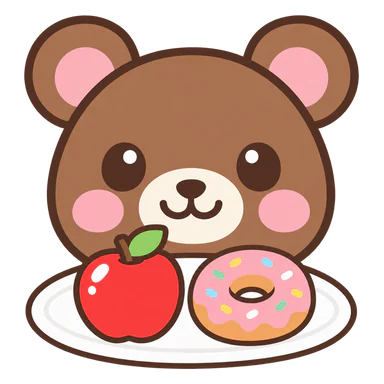
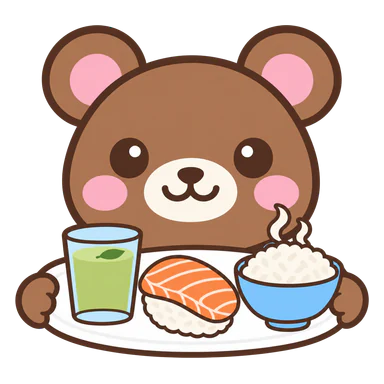
Add the pictures for 動物餐廳's ingredients, dishes and 電鍋
The new 動物餐廳 is made of ingredients that combine into dishes, so it
needs nine ingredients (杯子, 茶葉, 水, 牛奶, 米, 鮭魚, 蛋, 海苔, 小黃瓜),
白飯, five dishes and the 電鍋, drawn like the animals. The hub card and
the cleared card now show the bear holding 綠茶, 鮭魚壽司 and 白飯. The
generated pictures came on white, so the white reaching the edge (and
the holes in the jug's and the rice scoop's handles) was made
transparent before conversion.

build-game-art.cjs learns tool-<id>.png for the 電鍋 and draws foods at
256 pixels, since a finished dish shows up to 90 CSS px on its plate.
The old foods stay until the game stops using them.

diff --git a/offline-shell.js b/offline-shell.js
@@ -1,3 +1,3 @@
 // Generated by scripts/prepare-release.py
 const SHELL_VERSION="1.0.0-beta.12";
-const SHELL_FILES=["./", "./index.html", "./app.js?v=1.0.0-beta.12", "./manifest.json", "./icon.svg", "./assets/coloring/catalog.js?v=1.0.0-beta.12", "./styles/base.css?v=1.0.0-beta.12", "./styles/celebration.css?v=1.0.0-beta.12", "./styles/editor.css?v=1.0.0-beta.12", "./styles/game-blocks.css?v=1.0.0-beta.12", "./styles/game-restaurant.css?v=1.0.0-beta.12", "./styles/games.css?v=1.0.0-beta.12", "./styles/home.css?v=1.0.0-beta.12", "./styles/parents.css?v=1.0.0-beta.12", "./modules/assets.js?v=1.0.0-beta.12", "./modules/blocks.js?v=1.0.0-beta.12", "./modules/game-blocks.js?v=1.0.0-beta.12", "./modules/game-kit.js?v=1.0.0-beta.12", "./modules/game-restaurant.js?v=1.0.0-beta.12", "./modules/history.js?v=1.0.0-beta.12", "./modules/install.js?v=1.0.0-beta.12", "./modules/legacy-scenes.js?v=1.0.0-beta.12", "./modules/migrations.js?v=1.0.0-beta.12", "./modules/offline.js?v=1.0.0-beta.12", "./modules/painter.js?v=1.0.0-beta.12", "./modules/palette.js?v=1.0.0-beta.12", "./modules/random.js?v=1.0.0-beta.12", "./modules/regions.js?v=1.0.0-beta.12", "./modules/renderer.js?v=1.0.0-beta.12", "./modules/restaurant.js?v=1.0.0-beta.12", "./modules/scheduler.js?v=1.0.0-beta.12", "./modules/sound.js?v=1.0.0-beta.12", "./modules/storage.js?v=1.0.0-beta.12", "./modules/surface.js?v=1.0.0-beta.12", "./modules/ui.js?v=1.0.0-beta.12", "./assets/ui/app-icon-192.png", "./assets/ui/app-icon-512.png", "./assets/ui/app-icon-maskable-512.png", "./assets/ui/back.svg", "./assets/ui/category-dolphin.png", "./assets/ui/category-gabby.png", "./assets/ui/category-kitty.png", "./assets/ui/category-peppa.png", "./assets/ui/category-snow-white.png", "./assets/ui/category-toothless.png", "./assets/ui/category-winger.png", "./assets/ui/clear.svg", "./assets/ui/download.svg", "./assets/ui/eraser.svg", "./assets/ui/fullscreen.svg", "./assets/ui/gallery.svg", "./assets/ui/game-blocks.webp", "./assets/ui/game-coloring.webp", "./assets/ui/game-freedraw.webp", "./assets/ui/game-restaurant.webp", "./assets/ui/home.svg", "./assets/ui/levels.svg", "./assets/ui/more.svg", "./assets/ui/pastel-corners.png", "./assets/ui/pen.svg", "./assets/ui/redo.svg", "./assets/ui/restart.svg", "./assets/ui/settings.svg", "./assets/ui/sun.png", "./assets/ui/undo.svg", "./assets/games/blocks/cat-blue-head.webp", "./assets/games/blocks/cat-blue-lying.webp", "./assets/games/blocks/cat-blue-sitting.webp", "./assets/games/blocks/cat-green-head.webp", "./assets/games/blocks/cat-green-lying.webp", "./assets/games/blocks/cat-green-sitting.webp", "./assets/games/blocks/cat-pink-head.webp", "./assets/games/blocks/cat-pink-lying.webp", "./assets/games/blocks/cat-pink-sitting.webp", "./assets/games/blocks/cat-purple-head.webp", "./assets/games/blocks/cat-purple-lying.webp", "./assets/games/blocks/cat-purple-sitting.webp", "./assets/games/blocks/cat-yellow-head.webp", "./assets/games/blocks/cat-yellow-lying.webp", "./assets/games/blocks/cat-yellow-sitting.webp", "./assets/games/blocks/frame.webp", "./assets/games/blocks/room-landscape.webp", "./assets/games/blocks/room-portrait.webp", "./assets/games/restaurant/animal-bear.webp", "./assets/games/restaurant/animal-cat.webp", "./assets/games/restaurant/animal-chick.webp", "./assets/games/restaurant/animal-cow.webp", "./assets/games/restaurant/animal-dog.webp", "./assets/games/restaurant/animal-fox.webp", "./assets/games/restaurant/animal-frog.webp", "./assets/games/restaurant/animal-hamster.webp", "./assets/games/restaurant/animal-koala.webp", "./assets/games/restaurant/animal-lion.webp", "./assets/games/restaurant/animal-monkey.webp", "./assets/games/restaurant/animal-mouse.webp", "./assets/games/restaurant/animal-panda.webp", "./assets/games/restaurant/animal-penguin.webp", "./assets/games/restaurant/animal-pig.webp", "./assets/games/restaurant/animal-rabbit.webp", "./assets/games/restaurant/animal-tiger.webp", "./assets/games/restaurant/animal-unicorn.webp", "./assets/games/restaurant/food-apple.webp", "./assets/games/restaurant/food-banana.webp", "./assets/games/restaurant/food-bread.webp", "./assets/games/restaurant/food-burger.webp", "./assets/games/restaurant/food-cake.webp", "./assets/games/restaurant/food-carrot.webp", "./assets/games/restaurant/food-cheese.webp", "./assets/games/restaurant/food-cookie.webp", "./assets/games/restaurant/food-corn.webp", "./assets/games/restaurant/food-donut.webp", "./assets/games/restaurant/food-fish.webp", "./assets/games/restaurant/food-fries.webp", "./assets/games/restaurant/food-grapes.webp", "./assets/games/restaurant/food-honey.webp", "./assets/games/restaurant/food-icecream.webp", "./assets/games/restaurant/food-milk.webp", "./assets/games/restaurant/food-pizza.webp", "./assets/games/restaurant/food-riceball.webp", "./assets/games/restaurant/food-strawberry.webp", "./assets/games/restaurant/food-watermelon.webp", "./assets/games/restaurant/room-counter-landscape.webp", "./assets/games/restaurant/room-counter-portrait.webp", "./assets/games/restaurant/room-panels-landscape.webp", "./assets/games/restaurant/room-panels-portrait.webp", "./assets/games/restaurant/room-stripes-landscape.webp", "./assets/games/restaurant/room-stripes-portrait.webp", "./assets/games/restaurant/room-wall-landscape.webp", "./assets/games/restaurant/room-wall-portrait.webp"];
+const SHELL_FILES=["./", "./index.html", "./app.js?v=1.0.0-beta.12", "./manifest.json", "./icon.svg", "./assets/coloring/catalog.js?v=1.0.0-beta.12", "./styles/base.css?v=1.0.0-beta.12", "./styles/celebration.css?v=1.0.0-beta.12", "./styles/editor.css?v=1.0.0-beta.12", "./styles/game-blocks.css?v=1.0.0-beta.12", "./styles/game-restaurant.css?v=1.0.0-beta.12", "./styles/games.css?v=1.0.0-beta.12", "./styles/home.css?v=1.0.0-beta.12", "./styles/parents.css?v=1.0.0-beta.12", "./modules/assets.js?v=1.0.0-beta.12", "./modules/blocks.js?v=1.0.0-beta.12", "./modules/game-blocks.js?v=1.0.0-beta.12", "./modules/game-kit.js?v=1.0.0-beta.12", "./modules/game-restaurant.js?v=1.0.0-beta.12", "./modules/history.js?v=1.0.0-beta.12", "./modules/install.js?v=1.0.0-beta.12", "./modules/legacy-scenes.js?v=1.0.0-beta.12", "./modules/migrations.js?v=1.0.0-beta.12", "./modules/offline.js?v=1.0.0-beta.12", "./modules/painter.js?v=1.0.0-beta.12", "./modules/palette.js?v=1.0.0-beta.12", "./modules/random.js?v=1.0.0-beta.12", "./modules/regions.js?v=1.0.0-beta.12", "./modules/renderer.js?v=1.0.0-beta.12", "./modules/restaurant.js?v=1.0.0-beta.12", "./modules/scheduler.js?v=1.0.0-beta.12", "./modules/sound.js?v=1.0.0-beta.12", "./modules/storage.js?v=1.0.0-beta.12", "./modules/surface.js?v=1.0.0-beta.12", "./modules/ui.js?v=1.0.0-beta.12", "./assets/ui/app-icon-192.png", "./assets/ui/app-icon-512.png", "./assets/ui/app-icon-maskable-512.png", "./assets/ui/back.svg", "./assets/ui/category-dolphin.png", "./assets/ui/category-gabby.png", "./assets/ui/category-kitty.png", "./assets/ui/category-peppa.png", "./assets/ui/category-snow-white.png", "./assets/ui/category-toothless.png", "./assets/ui/category-winger.png", "./assets/ui/clear.svg", "./assets/ui/download.svg", "./assets/ui/eraser.svg", "./assets/ui/fullscreen.svg", "./assets/ui/gallery.svg", "./assets/ui/game-blocks.webp", "./assets/ui/game-coloring.webp", "./assets/ui/game-freedraw.webp", "./assets/ui/game-restaurant.webp", "./assets/ui/home.svg", "./assets/ui/levels.svg", "./assets/ui/more.svg", "./assets/ui/pastel-corners.png", "./assets/ui/pen.svg", "./assets/ui/redo.svg", "./assets/ui/restart.svg", "./assets/ui/settings.svg", "./assets/ui/sun.png", "./assets/ui/undo.svg", "./assets/games/blocks/cat-blue-head.webp", "./assets/games/blocks/cat-blue-lying.webp", "./assets/games/blocks/cat-blue-sitting.webp", "./assets/games/blocks/cat-green-head.webp", "./assets/games/blocks/cat-green-lying.webp", "./assets/games/blocks/cat-green-sitting.webp", "./assets/games/blocks/cat-pink-head.webp", "./assets/games/blocks/cat-pink-lying.webp", "./assets/games/blocks/cat-pink-sitting.webp", "./assets/games/blocks/cat-purple-head.webp", "./assets/games/blocks/cat-purple-lying.webp", "./assets/games/blocks/cat-purple-sitting.webp", "./assets/games/blocks/cat-yellow-head.webp", "./assets/games/blocks/cat-yellow-lying.webp", "./assets/games/blocks/cat-yellow-sitting.webp", "./assets/games/blocks/frame.webp", "./assets/games/blocks/room-landscape.webp", "./assets/games/blocks/room-portrait.webp", "./assets/games/restaurant/animal-bear.webp", "./assets/games/restaurant/animal-cat.webp", "./assets/games/restaurant/animal-chick.webp", "./assets/games/restaurant/animal-cow.webp", "./assets/games/restaurant/animal-dog.webp", "./assets/games/restaurant/animal-fox.webp", "./assets/games/restaurant/animal-frog.webp", "./assets/games/restaurant/animal-hamster.webp", "./assets/games/restaurant/animal-koala.webp", "./assets/games/restaurant/animal-lion.webp", "./assets/games/restaurant/animal-monkey.webp", "./assets/games/restaurant/animal-mouse.webp", "./assets/games/restaurant/animal-panda.webp", "./assets/games/restaurant/animal-penguin.webp", "./assets/games/restaurant/animal-pig.webp", "./assets/games/restaurant/animal-rabbit.webp", "./assets/games/restaurant/animal-tiger.webp", "./assets/games/restaurant/animal-unicorn.webp", "./assets/games/restaurant/food-apple.webp", "./assets/games/restaurant/food-banana.webp", "./assets/games/restaurant/food-bread.webp", "./assets/games/restaurant/food-burger.webp", "./assets/games/restaurant/food-cake.webp", "./assets/games/restaurant/food-carrot.webp", "./assets/games/restaurant/food-cheese.webp", "./assets/games/restaurant/food-cookedrice.webp", "./assets/games/restaurant/food-cookie.webp", "./assets/games/restaurant/food-corn.webp", "./assets/games/restaurant/food-cucumber.webp", "./assets/games/restaurant/food-cucumberroll.webp", "./assets/games/restaurant/food-cup.webp", "./assets/games/restaurant/food-donut.webp", "./assets/games/restaurant/food-egg.webp", "./assets/games/restaurant/food-eggsushi.webp", "./assets/games/restaurant/food-fish.webp", "./assets/games/restaurant/food-fries.webp", "./assets/games/restaurant/food-grapes.webp", "./assets/games/restaurant/food-greentea.webp", "./assets/games/restaurant/food-honey.webp", "./assets/games/restaurant/food-icecream.webp", "./assets/games/restaurant/food-milk.webp", "./assets/games/restaurant/food-milktea.webp", "./assets/games/restaurant/food-nori.webp", "./assets/games/restaurant/food-pizza.webp", "./assets/games/restaurant/food-rice.webp", "./assets/games/restaurant/food-riceball.webp", "./assets/games/restaurant/food-salmon.webp", "./assets/games/restaurant/food-salmonsushi.webp", "./assets/games/restaurant/food-strawberry.webp", "./assets/games/restaurant/food-tea.webp", "./assets/games/restaurant/food-water.webp", "./assets/games/restaurant/food-watermelon.webp", "./assets/games/restaurant/room-counter-landscape.webp", "./assets/games/restaurant/room-counter-portrait.webp", "./assets/games/restaurant/room-panels-landscape.webp", "./assets/games/restaurant/room-panels-portrait.webp", "./assets/games/restaurant/room-stripes-landscape.webp", "./assets/games/restaurant/room-stripes-portrait.webp", "./assets/games/restaurant/room-wall-landscape.webp", "./assets/games/restaurant/room-wall-portrait.webp", "./assets/games/restaurant/tool-cooker.webp"];

diff --git a/CLAUDE.md b/CLAUDE.md
@@ -160,7 +160,7 @@ Home categories, their order, names, and cover PNGs live in `categories.json`. T
 - a missing cover
 - a category without a `simple` sheet
 
-`scripts/build-game-art.cjs` turns generated transparent PNGs (default source `tmp/restaurant-art/`: `animal-<id>.png`, `food-<id>.png`, `game-<id>.png`) into trimmed, centered WebP files: 動物餐廳 pictures in `assets/games/restaurant/` and hub cards in `assets/ui/`. It also cuts the 動物餐廳 room (`restaurant-background-portrait|landscape.png`) into `room-*.webp` strips at rows listed in `BACKDROP`; the page stretches the plain stripe and panel strips so the counter's edge meets the customer's chin at any screen size. For 方塊出門 it trims the cats (`cat-<color>-<pose>.png`) to their own shape, writes the room (`blocks-background-portrait|landscape.png`) and rebuilds the fence (`blocks-frame.png`) from its top left corner, mirrored and carried on along the sides, so all four sides match; pass the source folder (e.g. `tmp/blocks-art`). Run it by hand; the PNG originals are not committed. WebP files in `assets/ui/` and `assets/games/` join the offline shell automatically.
+`scripts/build-game-art.cjs` turns generated transparent PNGs (default source `tmp/restaurant-art/`: `animal-<id>.png`, `food-<id>.png`, `tool-<id>.png`, `game-<id>.png`) into trimmed, centered WebP files: 動物餐廳 pictures in `assets/games/restaurant/` and hub cards in `assets/ui/`. It converts every matching PNG in the folder, so pass a folder holding only the pictures to redo. It also cuts the 動物餐廳 room (`restaurant-background-portrait|landscape.png`) into `room-*.webp` strips at rows listed in `BACKDROP`; the page stretches the plain stripe and panel strips so the counter's edge meets the customer's chin at any screen size. For 方塊出門 it trims the cats (`cat-<color>-<pose>.png`) to their own shape, writes the room (`blocks-background-portrait|landscape.png`) and rebuilds the fence (`blocks-frame.png`) from its top left corner, mirrored and carried on along the sides, so all four sides match; pass the source folder (e.g. `tmp/blocks-art`). Run it by hand; the PNG originals are not committed. WebP files in `assets/ui/` and `assets/games/` join the offline shell automatically.
 
 `scripts/build-app-icons.cjs` regenerates the manifest PNG icons (`assets/ui/app-icon-*.png`, including the maskable one) from `icon.svg`. Run it by hand; it is not part of `npm run build`, because cross-platform PNG output would break CI's no-diff check.
 

diff --git a/assets/ui/SOURCES.md b/assets/ui/SOURCES.md
@@ -5,4 +5,4 @@
 - pastel-corners.png：同日使用 imagegen 生成的透明四角淡藍／青／粉／薄荷裝飾，中央留白。只用於介面背景，不畫進使用者作品。
 - category-*.png：從對應現有 SVG 移除 sky、以單一淡色填色後渲染；角色線稿來源及使用條件沿用 ../coloring/SOURCES.md。保持真實線稿構圖與比例。
 - ../../icon.svg：2026-10-28 為「小小遊樂園」手繪的簡單 SVG（疊方塊與星星的 App 圖示）；app-icon-*.png 由 scripts/build-app-icons.cjs 從 icon.svg 產生。
-- game-*.webp（含分類頁「自由畫畫」卡片的 game-freedraw.webp）與 ../games/restaurant/*.webp：2026-10-28 至 10-29 以 ChatGPT 圖片生成製作的透明 PNG（圓潤扁平、#594137 深咖啡色描邊、粉彩配色），由 scripts/build-game-art.cjs 裁邊、置中並轉成 WebP。../games/restaurant/room-*.webp 是同日生成的直式、橫式餐廳背景（不透明），由同一個腳本切成牆面、條紋、櫃台邊緣與櫃台面板四段。原始 PNG 不放進版本庫。
+- game-*.webp（含分類頁「自由畫畫」卡片的 game-freedraw.webp）與 ../games/restaurant/*.webp：2026-10-28 至 10-29 以 ChatGPT 圖片生成製作的透明 PNG（圓潤扁平、#594137 深咖啡色描邊、粉彩配色），由 scripts/build-game-art.cjs 裁邊、置中並轉成 WebP。../games/restaurant/room-*.webp 是同日生成的直式、橫式餐廳背景（不透明），由同一個腳本切成牆面、條紋、櫃台邊緣與櫃台面板四段。2026-11-02 動物餐廳改成組合玩法時，以同樣方式生成食材、料理、電鍋（tool-cooker.webp）與新的 game-restaurant.webp；生成的圖是白色背景，先把連到畫布邊緣的白色（以及水壺、量米杯把手中間的洞）去掉成透明，再用同一個腳本轉檔。原始 PNG 不放進版本庫。
